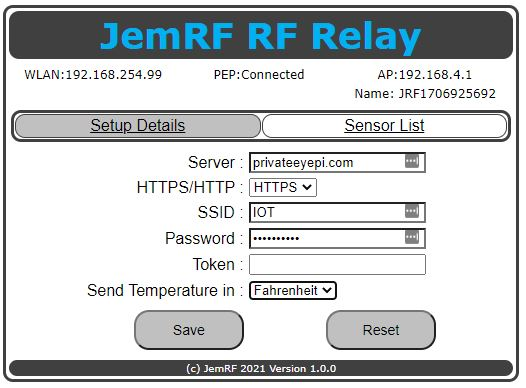
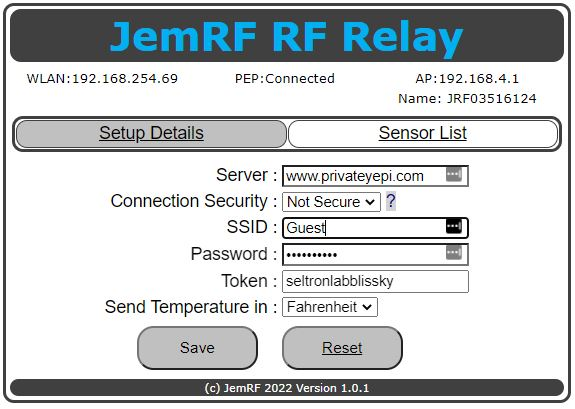
Update WiFi Relay documents and clean old images

Changed region(s): [[0.0, 0.0, 1.0, 0.9897], [0.3954, 0.1546, 0.5779, 0.2165], [0.3042, 0.8351, 0.3954, 0.866]]

diff --git a/pages/mydoc/wifi-rf-relay.md b/pages/mydoc/wifi-rf-relay.md
@@ -3,21 +3,23 @@ title: WiFi RF Wireless Sensor Relay
 keywords: communication, communications, relay, basic, radio, spec, wifi, sensor
 last_updated: Nov 18, 2021
 tags:
-summary: "This Draft Document describes the basics of WiFi RF Wireless Sensor Relay,or WiFi RF Relay"
+summary: "This Document describes the basics of WiFi RF Wireless Sensor Relay,or WiFi-RF Relay"
 sidebar: mydoc_sidebar
 permalink: wifirfrelay.html
 folder: mydoc
 ---
 
-The WiFi-RF Relay provides an alternative to using a Raspberry PI or Arduino computer to receive data from the Wireless RF Sensors, do the Celsius to Fahrenheit  conversion if wanted then send the readings to the PrivateEyePi server.
+The WiFi-RF Relay provides an alternative to using a Raspberry PI or Arduino computer to receive data from the Wireless RF Sensors, and do the Celsius to Fahrenheit conversion, before sending the readings to the PrivateEyePi server.
 
-The WiFi-RF Relay follows the same process as our WiFi IoT Sensors to connect to the local WiFi and then establishes a connection to the PEP server. Differences between the Raspberry Pi or Arduino functions, is the WiFi-RF Gateway is an Wireless RF receiver only, it can be used to not issue commands to the Wireless RF Sensor.
+The WiFi-RF Relay follows the same process as our WiFi IoT Sensors to connect to the local WiFi and then establishes a connection to the PEP server. <br />
+Unlike using a Raspberry Pi or Arduino provides extra functions, internal sensors, and it can be used to issue commands to the Wireless RF Sensor. <br />
+The WiFi-RF Relay is an Wireless RF receiver only,  it can not be used to send commands to RF Sensors.
 
-The WiFi-RF Relay will be in the same physical case as the current WiFi IoT Sensor.  Using a micro-USB connector for power.
+The WiFi-RF Relay will be in the same physical case as the current WiFi IoT Sensor.  Using a mini-USB connector for power.
 
 
 ## Setup Details
-The configuration page for the WiFi-RF Relay is very similar to the WiFi IoT Sensor. Added features include the option to send secure (https) or not and if Celsius to Farenheit conversion is wanted.
+The configuration page for the WiFi-RF Relay is very similar to the WiFi IoT Sensor. An added features include the option to establish a secure/encrypted (https) connection to the server or not.  It also supports the option for Celsius to Farenheit conversion.
 
 {% include image.html file="SetupScreen.jpg" alt="WiFi RF Relay Setup Page"%}
 
